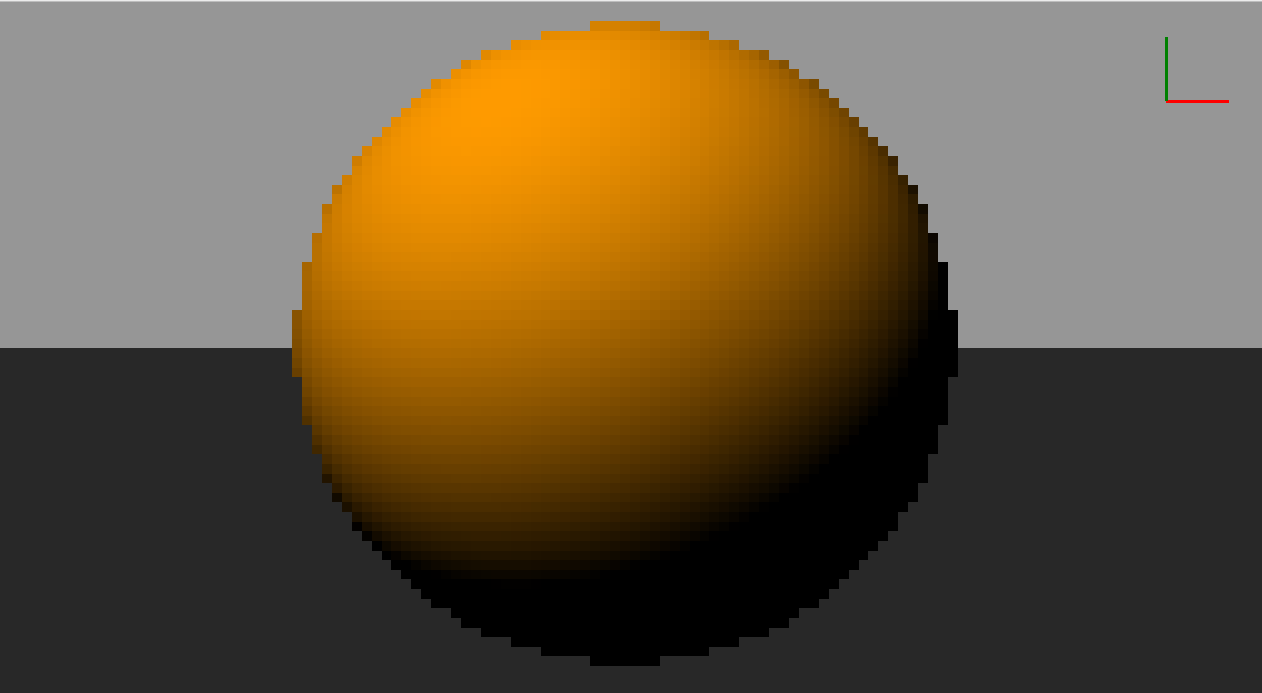
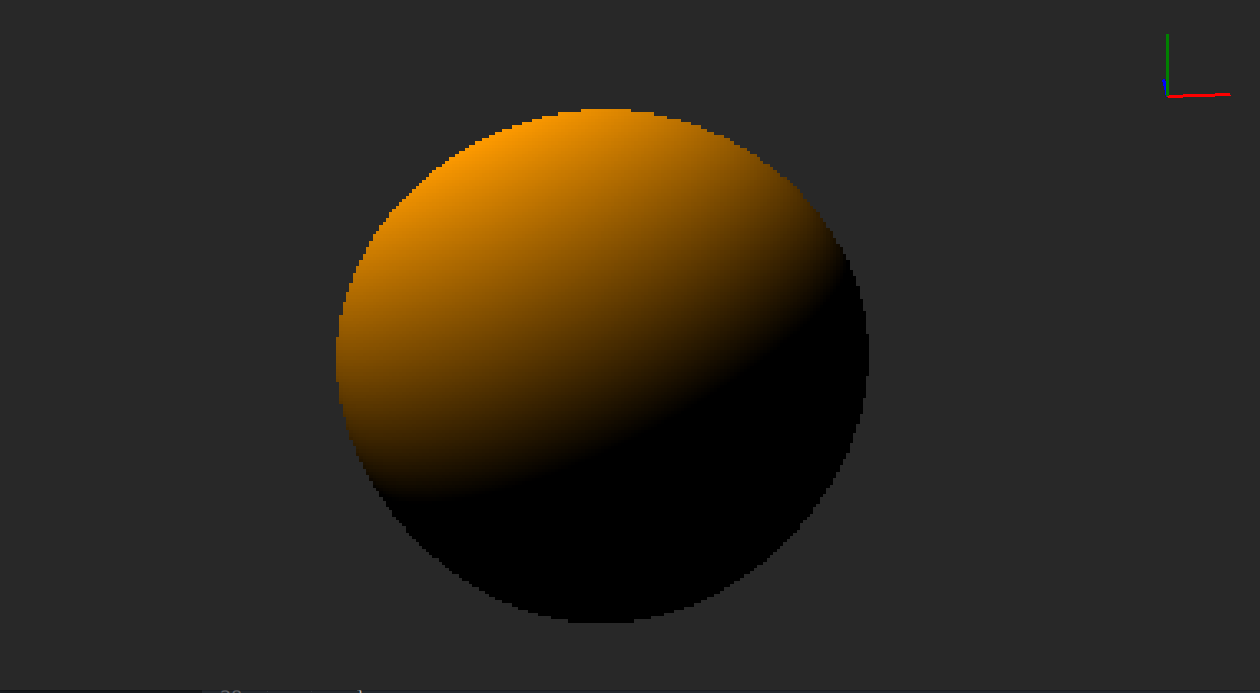
super improvement on performance

diff --git a/Window.cs b/Window.cs
@@ -15,7 +15,7 @@ public class Window : Form {
         Bitmap bitmap = new Bitmap("ico.png");
         this.Icon = Icon.FromHandle(bitmap.GetHicon());
 
-        this.viewport = new vec2(120*1, 120*1);
+        this.viewport = new vec2(192*1.5f, 108*1.5f);
         this.aspectratio = new vec2(this.ClientSize.Width,this.ClientSize.Height) / this.viewport;
 
         this.Paint += (sender, e) => repaint(e.Graphics);
@@ -47,8 +47,8 @@ public class Window : Form {
 
         this.print(g,
             Color.FromArgb(255,40,40,40),
-            new vec2(0,(float)(Math.Sin(App.camara.angle.x)*App.window.ClientSize.Height*2+App.window.ClientSize.Height/2)/*+App.camara.position.y*0.01*/),
-            new vec2(App.window.ClientSize.Width,(float)(Math.Sin(App.camara.angle.x)*App.window.ClientSize.Height*2+App.window.ClientSize.Height*4)/*+App.camara.position.y*0.01*/)
+            new vec2(0,(float)(Math.Sin(App.camara.angle.x)*size.y*2+size.y/2)/*+App.camara.position.y*0.01*/),
+            new vec2(size.x,(float)(Math.Sin(App.camara.angle.x)*size.y*2+size.y*40)/*+App.camara.position.y*0.01*/)
         );
 
         foreach(var p in this.pixel){
@@ -56,7 +56,8 @@ public class Window : Form {
 
             App.camara.castRays(p.id);
             App.camara.shader(g, p.id);
-            this.print(g, p.color, invertId * this.aspectratio-this.aspectratio, this.aspectratio);
+            if(p.color != Color.Black)
+                this.print(g, p.color, invertId * this.aspectratio-this.aspectratio, this.aspectratio);
         }
 
         //this.print(g, Color.FromArgb(255, 0, 155, 255), App.camara.project(new vec3(0, 0, 0)), new vec2(10, 10));

diff --git a/Camara.cs b/Camara.cs
@@ -45,7 +45,7 @@ public class Camara {
 
         float time = App.sphere.colision(currentr);
         if(time <= 0) {
-            App.window.pixel[index].color = Color.FromArgb(0,0,0,0);
+            App.window.pixel[index].color = Color.Black;
         } else{
             vec3 normal = currentr.f(time) - App.sphere.position;
             float bright = normal.unit().dot(App.light.normal.unit());
@@ -83,7 +83,7 @@ public class Camara {
         );
 
         this.ray[index].origin = this.position;
-        this.ray[index].direction = targuet.unit();
+        this.ray[index].direction = targuet;
     }
 
     public float distance(vec3 point){

diff --git a/App.cs b/App.cs
@@ -2,7 +2,7 @@ using System;
 using System.Windows.Forms;
 
 public class App {
-    public static Window window = new Window("Renderer",new vec2(720,720));
+    public static Window window = new Window("Renderer",new vec2(1280,720));
     public static Camara camara;
 
     public static Light light = new Light(new vec3(-1,-2,0));
